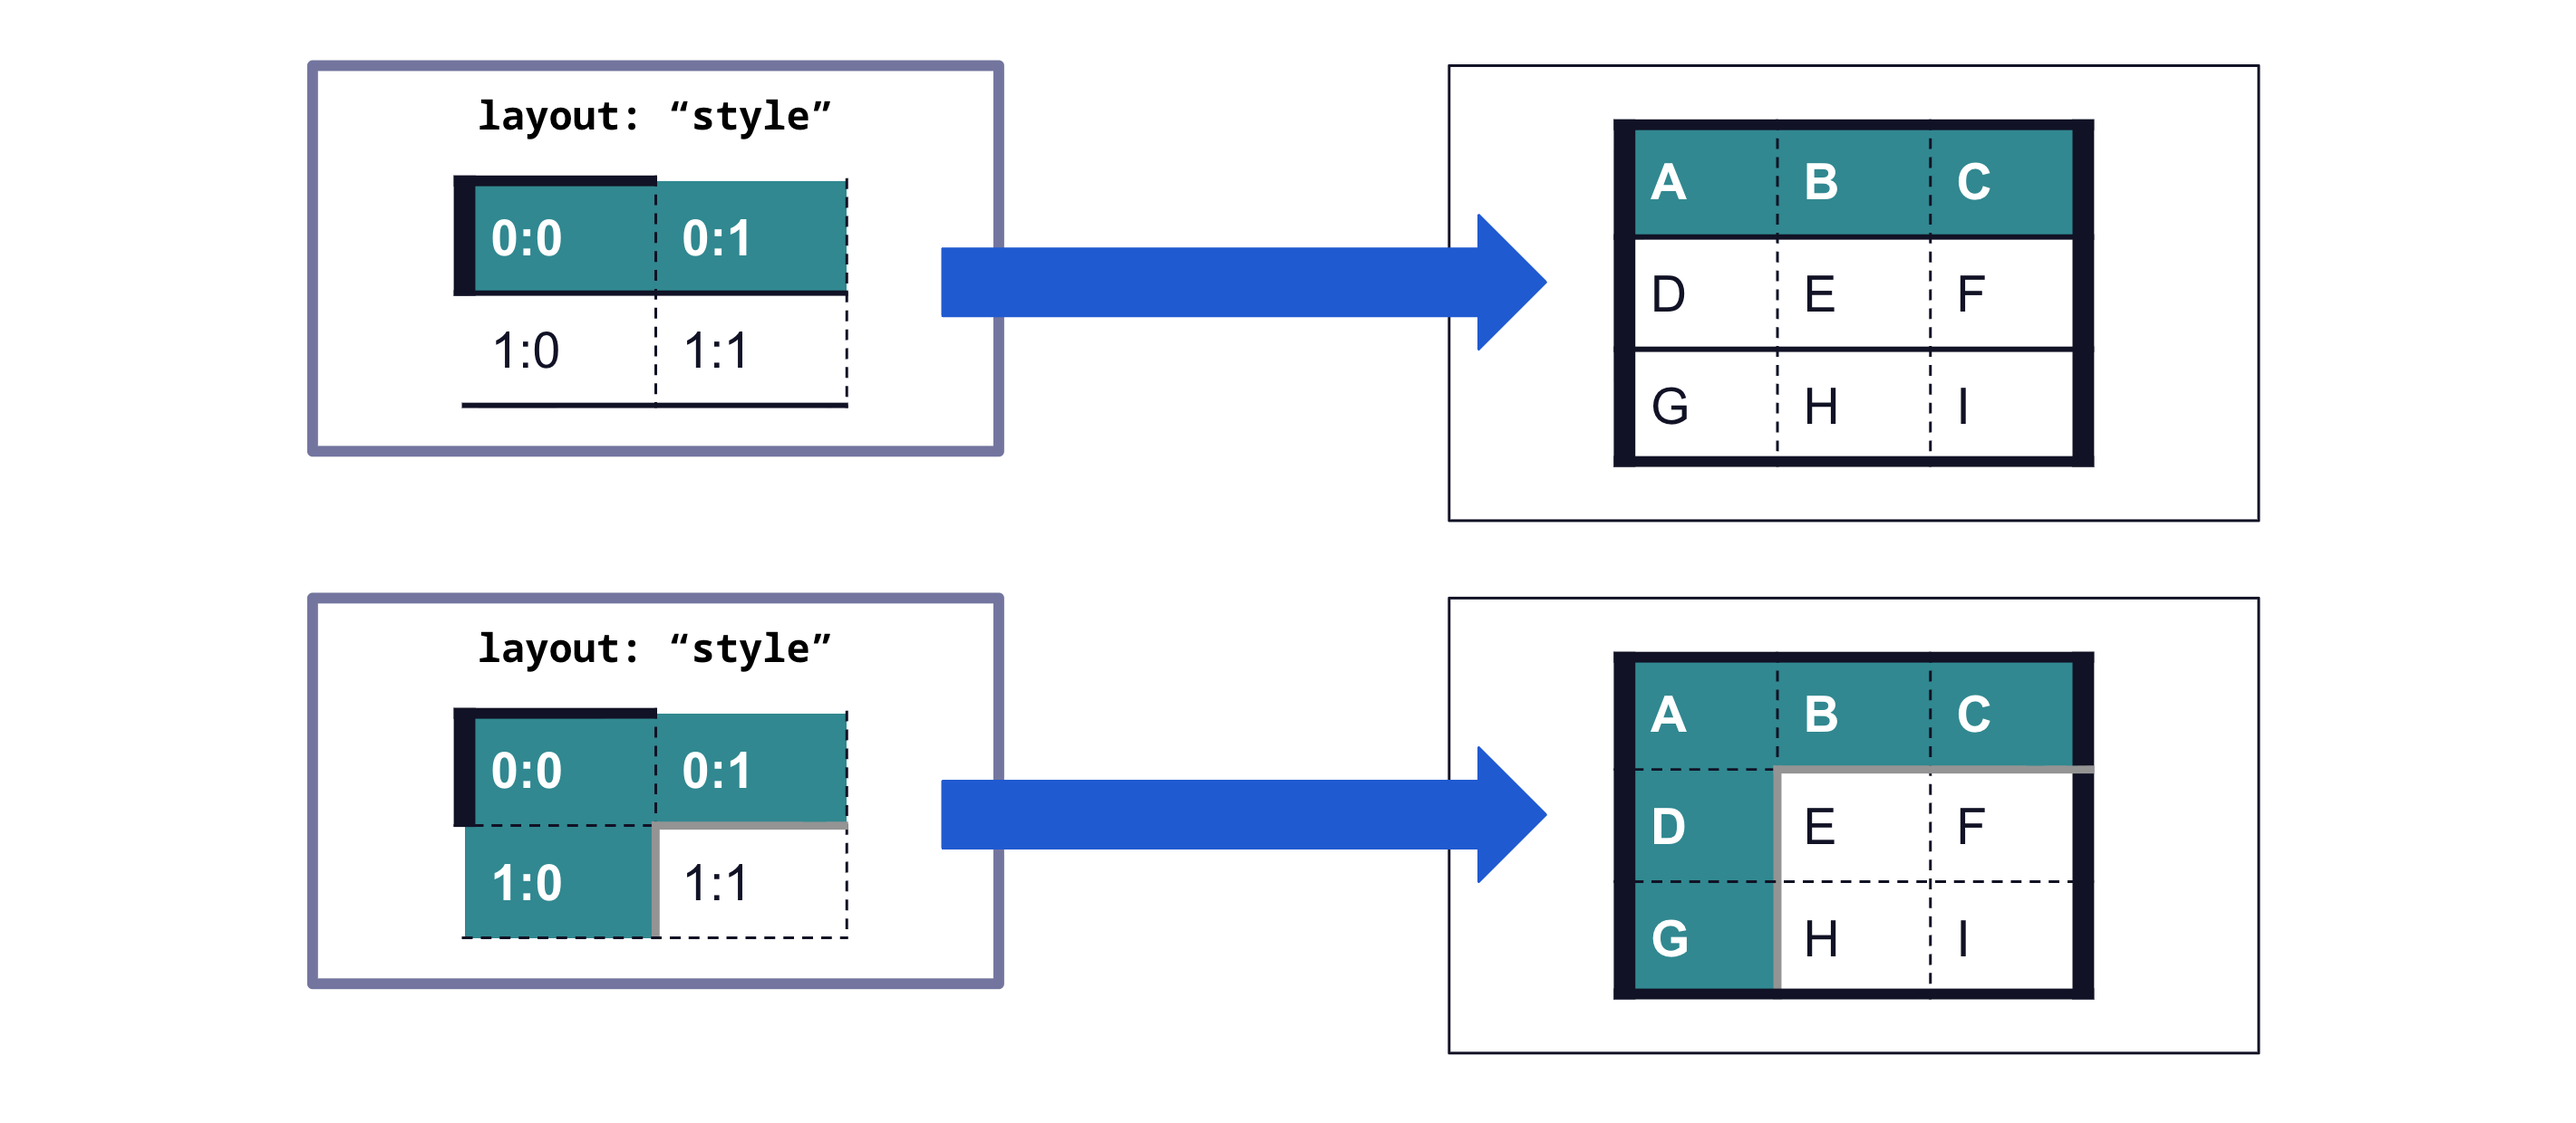
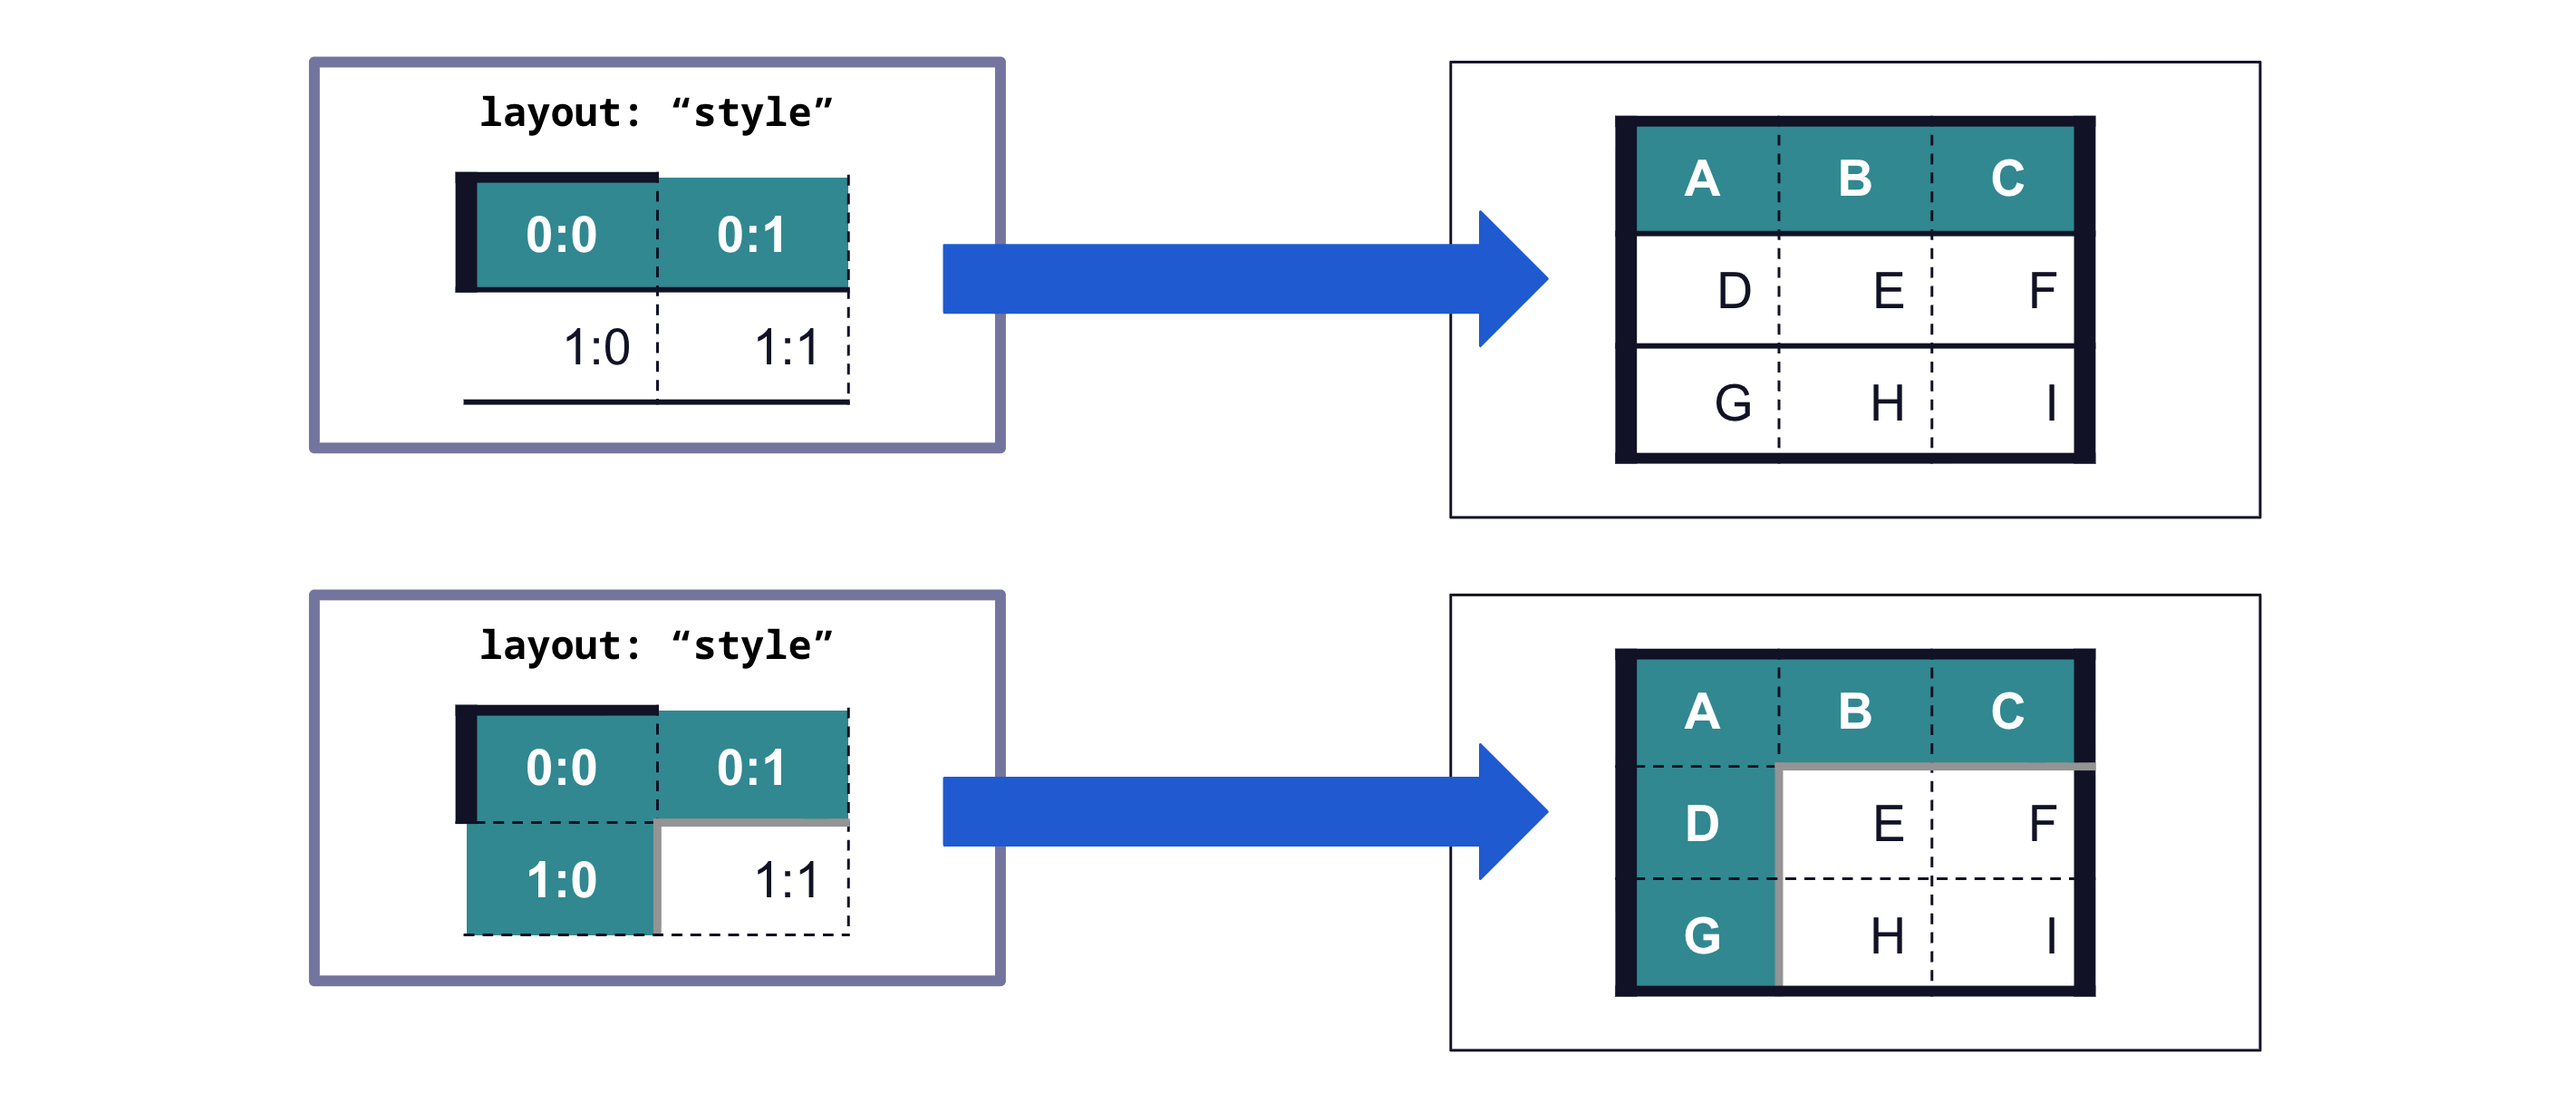
feat: support table cell alignment from style layout

diff --git a/table.go b/table.go
@@ -525,23 +525,55 @@ func (d *Deck) applyTableCellStyles(tableObjectID string, table *Table) []*slide
 				continue
 			}
 
-			// Apply background color
-			if cellStyle.BackgroundFill != nil {
+			tableRange := &slides.TableRange{
+				Location: &slides.TableCellLocation{
+					RowIndex:    int64(rowIdx),
+					ColumnIndex: int64(colIdx),
+				},
+				RowSpan:    1,
+				ColumnSpan: 1,
+			}
+
+			// Apply background color and content alignment
+			if cellStyle.BackgroundFill != nil || cellStyle.ContentAlignment != "" {
+				props := &slides.TableCellProperties{}
+				var fields []string
+
+				if cellStyle.BackgroundFill != nil {
+					props.TableCellBackgroundFill = cellStyle.BackgroundFill
+					fields = append(fields, "tableCellBackgroundFill")
+				}
+				if cellStyle.ContentAlignment != "" {
+					props.ContentAlignment = cellStyle.ContentAlignment
+					fields = append(fields, "contentAlignment")
+				}
+
 				requests = append(requests, &slides.Request{
 					UpdateTableCellProperties: &slides.UpdateTableCellPropertiesRequest{
+						ObjectId:            tableObjectID,
+						TableRange:          tableRange,
+						TableCellProperties: props,
+						Fields:              strings.Join(fields, ","),
+					},
+				})
+			}
+
+			// Apply paragraph style (horizontal alignment)
+			if cellStyle.ParagraphStyle != nil && cellStyle.ParagraphStyle.Alignment != "" {
+				requests = append(requests, &slides.Request{
+					UpdateParagraphStyle: &slides.UpdateParagraphStyleRequest{
 						ObjectId: tableObjectID,
-						TableRange: &slides.TableRange{
-							Location: &slides.TableCellLocation{
-								RowIndex:    int64(rowIdx),
-								ColumnIndex: int64(colIdx),
-							},
-							RowSpan:    1,
-							ColumnSpan: 1,
+						CellLocation: &slides.TableCellLocation{
+							RowIndex:    int64(rowIdx),
+							ColumnIndex: int64(colIdx),
 						},
-						TableCellProperties: &slides.TableCellProperties{
-							TableCellBackgroundFill: cellStyle.BackgroundFill,
+						Style: &slides.ParagraphStyle{
+							Alignment: cellStyle.ParagraphStyle.Alignment,
 						},
-						Fields: "tableCellBackgroundFill",
+						Fields: "alignment",
+						TextRange: &slides.Range{
+							Type: "ALL",
+						},
 					},
 				})
 			}

diff --git a/table_style.go b/table_style.go
@@ -18,8 +18,10 @@ type TableStyle struct {
 
 // TableCellStyle holds style information for a single table cell.
 type TableCellStyle struct {
-	BackgroundFill *slides.TableCellBackgroundFill
-	TextStyle      *slides.TextStyle
+	BackgroundFill   *slides.TableCellBackgroundFill
+	TextStyle        *slides.TextStyle
+	ContentAlignment string              // Vertical alignment: TOP, MIDDLE, BOTTOM
+	ParagraphStyle   *slides.ParagraphStyle // Horizontal alignment, etc.
 }
 
 // TableBorderStyle holds border style information extracted from 2x2 table.
@@ -204,16 +206,23 @@ func extractBorderStyle(table *slides.Table) *TableBorderStyle {
 func extractCellStyle(cell *slides.TableCell) *TableCellStyle {
 	style := &TableCellStyle{}
 
-	// Extract background color
+	// Extract background color and content alignment
 	if cell.TableCellProperties != nil {
 		style.BackgroundFill = cell.TableCellProperties.TableCellBackgroundFill
+		style.ContentAlignment = cell.TableCellProperties.ContentAlignment
 	}
 
-	// Extract text style (from first TextRun)
+	// Extract text style and paragraph style (from first TextRun/ParagraphMarker)
 	if cell.Text != nil {
 		for _, te := range cell.Text.TextElements {
-			if te.TextRun != nil && te.TextRun.Style != nil {
+			if te.TextRun != nil && te.TextRun.Style != nil && style.TextStyle == nil {
 				style.TextStyle = te.TextRun.Style
+			}
+			if te.ParagraphMarker != nil && te.ParagraphMarker.Style != nil && style.ParagraphStyle == nil {
+				style.ParagraphStyle = te.ParagraphMarker.Style
+			}
+			// Break if both are found
+			if style.TextStyle != nil && style.ParagraphStyle != nil {
 				break
 			}
 		}

diff --git a/README.md b/README.md
@@ -340,6 +340,7 @@ You can also customize table styles by adding a **2x2 table** to the `style` lay
 The following properties are extracted from each cell:
 - **Background color**
 - **Text style** (bold, italic, font, color, etc.)
+- **Text alignment** (horizontal: left/center/right, vertical: top/middle/bottom)
 - **Border style** (color, weight, dash style, transparent)
 
 Border mapping:
